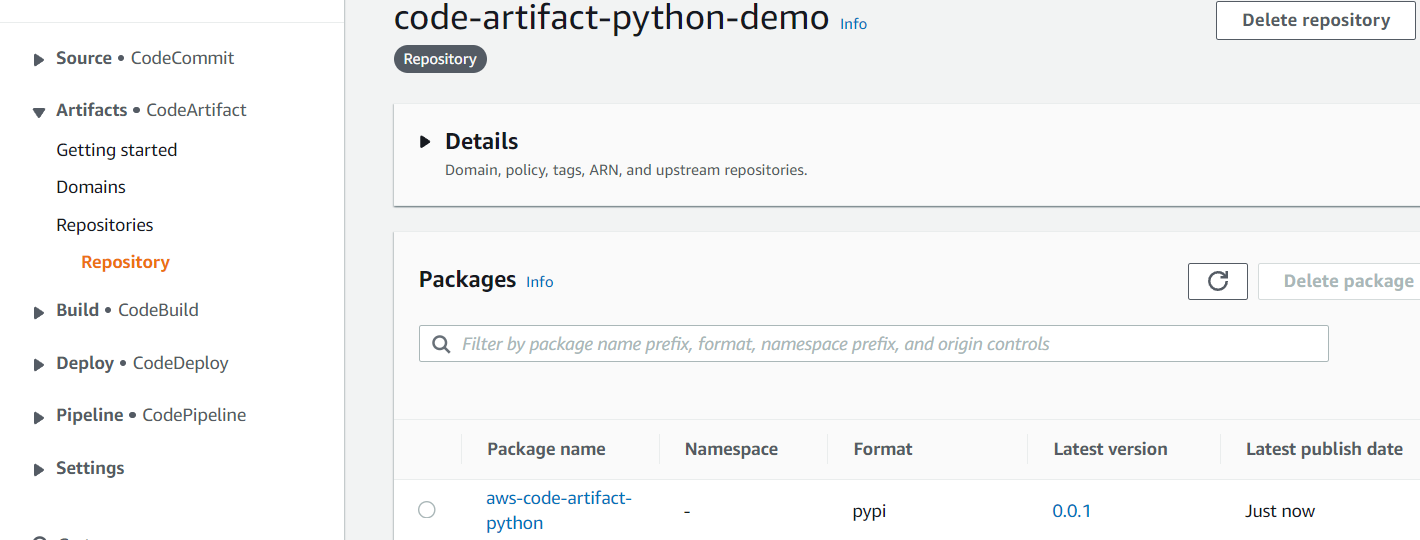
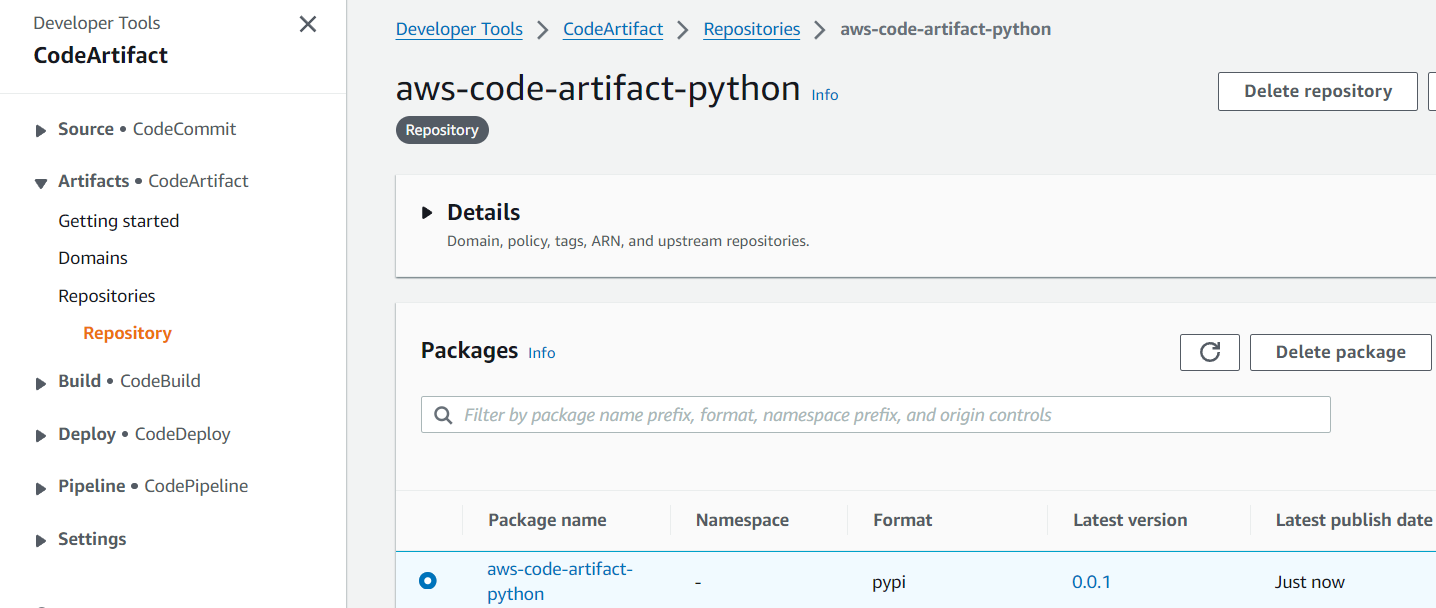
Add pull steps

diff --git a/README.md b/README.md
@@ -76,7 +76,7 @@ $ CODE_ARTIFACT_REPO_URL=$(
 aws codeartifact get-repository-endpoint \
   --domain-owner "1234567890123" \
   --domain "mello-world" \
-  --repository "code-artifact-python-demo" \
+  --repository "aws-code-artifact-python" \
   --format pypi \
   --query 'repositoryEndpoint' \
   --output text
@@ -92,14 +92,13 @@ Building aws-code-artifact-python (0.0.1)
   - Built aws_code_artifact_python-0.0.1-py3-none-any.whl
 
 # Publish to CodeArtifact repository
-$ poetry config repositories.demo-python "$CODE_ARTIFACT_REPO_URL"
-$ poetry config http-basic.demo-python aws "$AUTH_TOKEN"
+$ poetry config repositories.python-demo "$CODE_ARTIFACT_REPO_URL"
+$ poetry config http-basic.python-demo aws "$AUTH_TOKEN"
 Using a plaintext file to store credentials
-$ poetry publish -r demo-python
+$ poetry publish -r python-demo
 Publishing aws-code-artifact-python (0.0.1) to demo-python
   - Uploading aws_code_artifact_python-0.0.1-py3-none-any.whl 100%
   - Uploading aws_code_artifact_python-0.0.1.tar.gz 100%
-
 ```
 
 
@@ -112,3 +111,25 @@ Publishing aws-code-artifact-python (0.0.1) to demo-python
 
 
 ## Install private Python module to your environment
+```bash
+# Install module
+$ aws codeartifact login \
+  --tool pip \
+  --domain-owner "1234567890123" \
+  --domain "mello-world" \
+  --repository "aws-code-artifact-python" \
+  --profile "default" \
+  --region "ap-southeast-1"
+Login expires in 12 hours at 2024-09-24 09:25:24+08:00
+
+$ pip install aws-code-artifact-python
+
+# Show installed modules
+$ pip list
+Package                  Version   Editable project location
+------------------------ --------- ----------------------------------
+aws-code-artifact-python 0.0.1     /c/projects/aws-code-artifact-python
+
+# Reset to default source of pypi packages
+$ pip config unset global.index-url
+```
